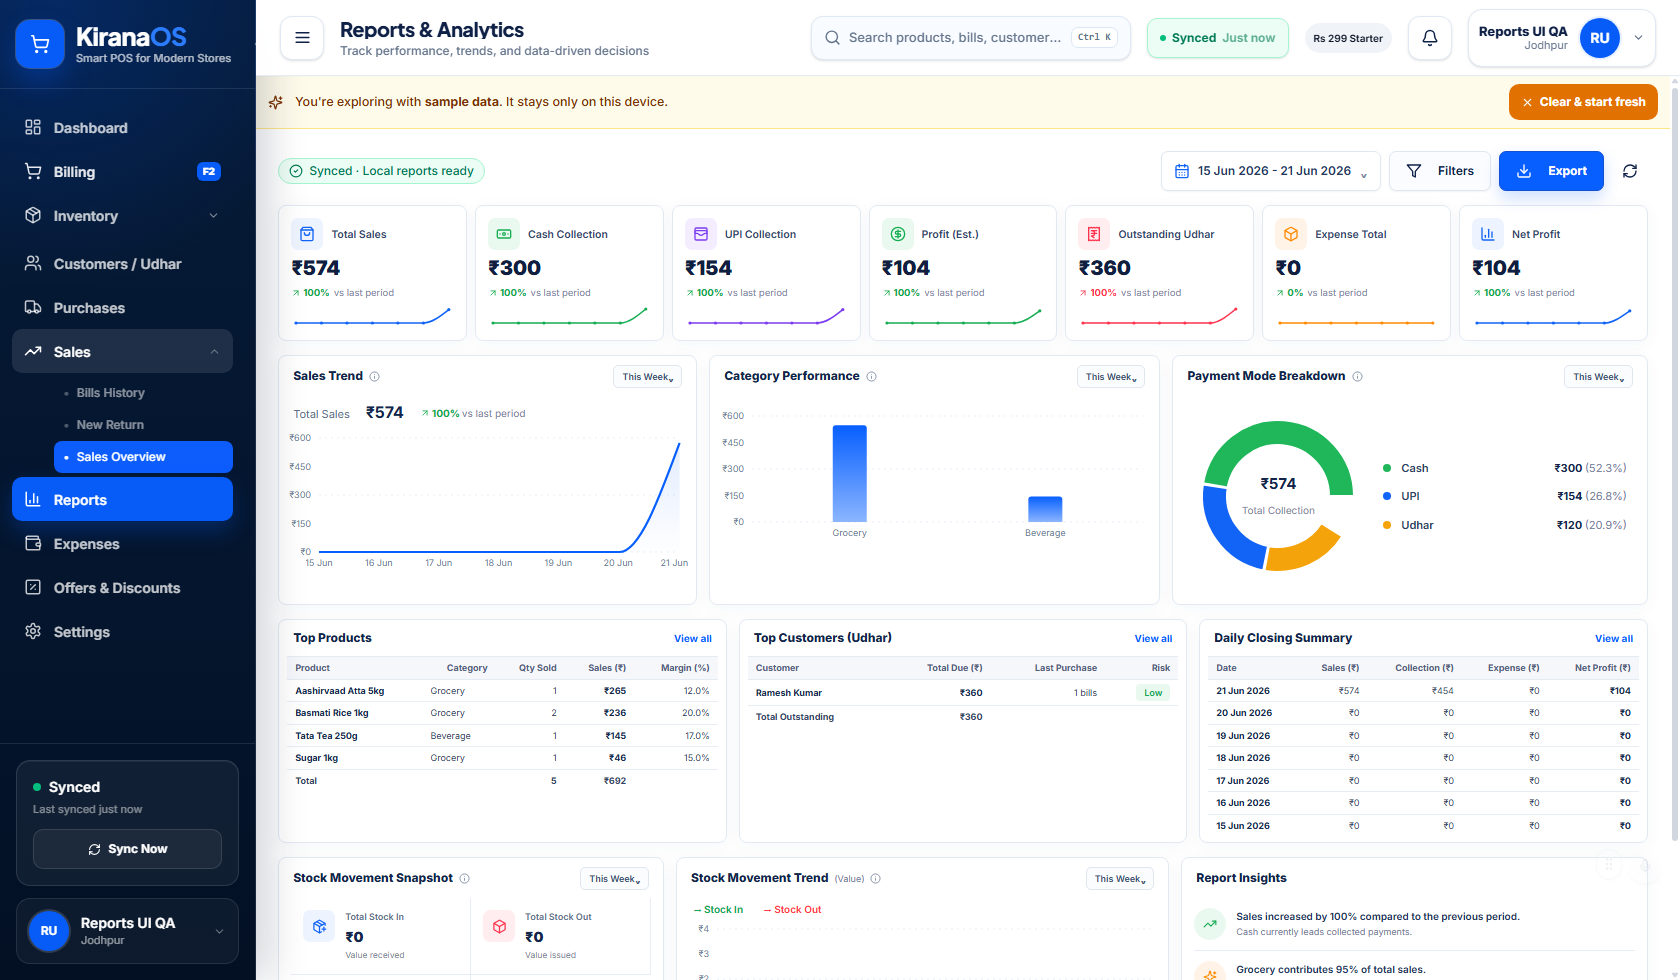
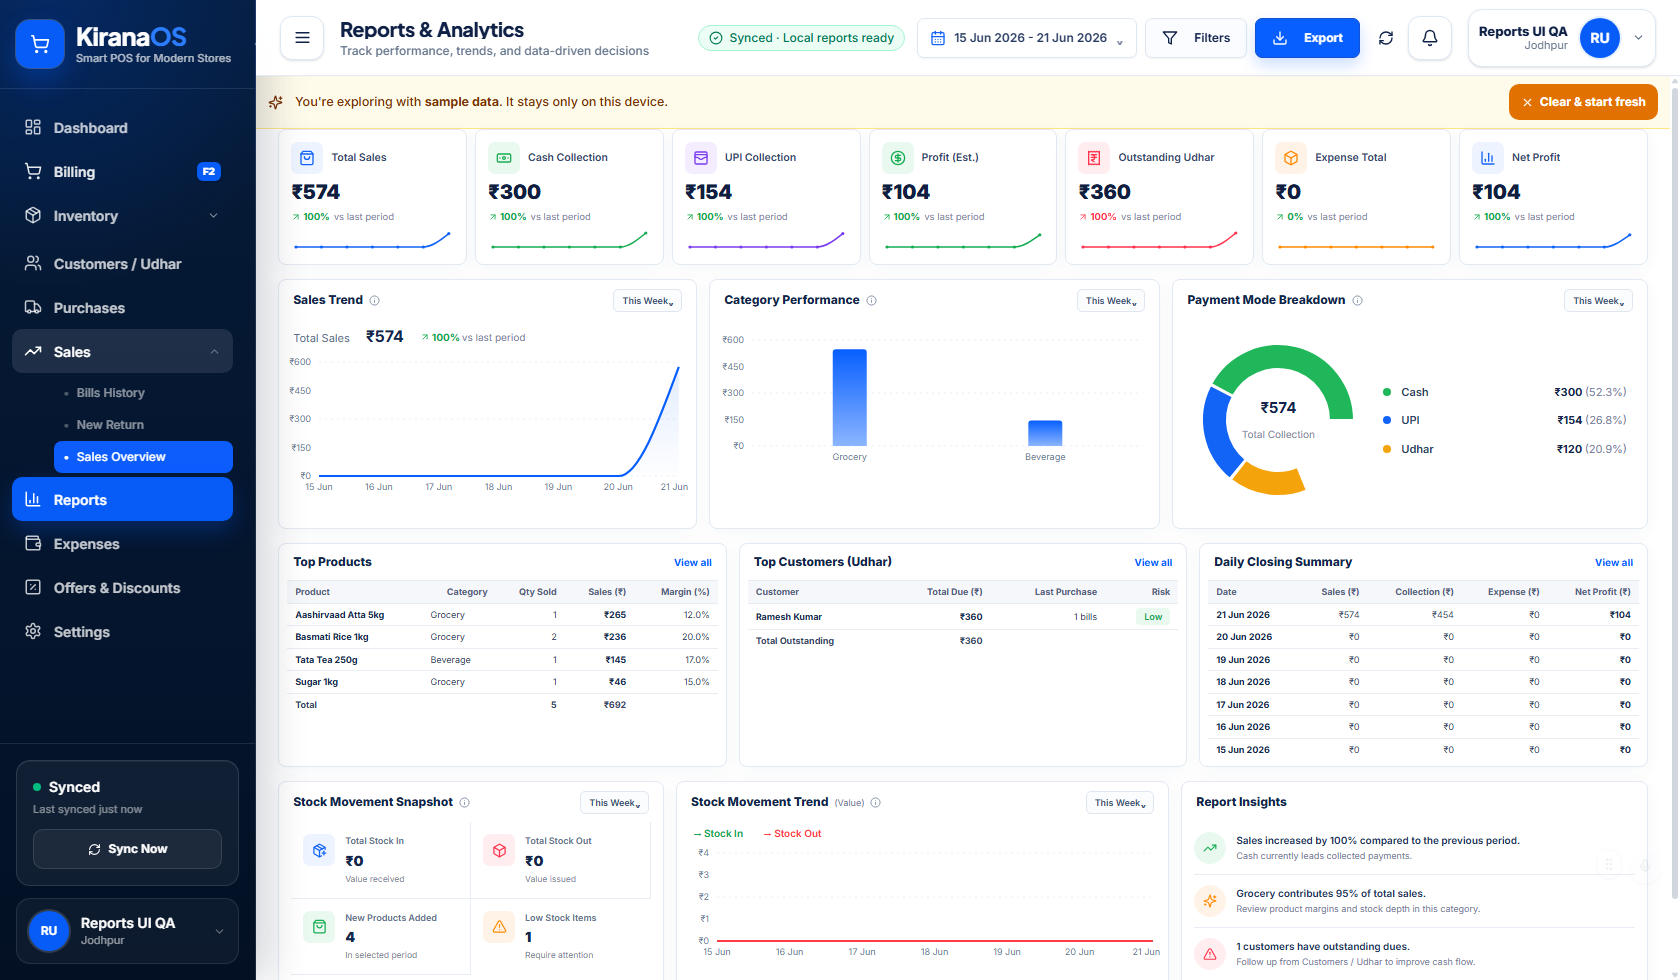
feat(reports): enhance top customers table with last purchase date and update screenshot handling

diff --git a/frontend/src/features/reports/pages/ReportsPage.tsx b/frontend/src/features/reports/pages/ReportsPage.tsx
@@ -428,7 +428,7 @@ export default function ReportsPage() {
         </DenseTable>
 
         <DenseTable title="Top Customers (Udhar)" action="View all" actionHref="/customers" headers={["Customer", "Total Due (₹)", "Last Purchase", "Risk"]} loading={loading} empty={!snapshot?.topCustomers.length}>
-          {snapshot?.topCustomers.slice(0, 5).map((row) => <tr key={row.customerId}><Td strong>{row.name}</Td><Td right strong>{fmt(row.balance)}</Td><Td right>{row.bills ? `${row.bills} bills` : "—"}</Td><Td right><RiskChip balance={row.balance} /></Td></tr>)}
+          {snapshot?.topCustomers.slice(0, 5).map((row) => <tr key={row.customerId}><Td strong>{row.name}</Td><Td right strong>{fmt(row.balance)}</Td><Td right>{row.lastPurchase ? dateLabel(row.lastPurchase.slice(0, 10)) : "—"}</Td><Td right><RiskChip balance={row.balance} /></Td></tr>)}
           {snapshot?.topCustomers.length ? <tr className="font-bold"><Td>Total Outstanding</Td><Td right>{fmt(snapshot.topCustomers.reduce((sum, row) => sum + row.balance, 0))}</Td><Td /><Td /></tr> : null}
         </DenseTable>
 

diff --git a/frontend/src/features/reports/local-reporting.ts b/frontend/src/features/reports/local-reporting.ts
@@ -51,6 +51,7 @@ export interface ReportTopCustomer {
   sales: number;
   balance: number;
   bills: number;
+  lastPurchase?: string | null;
 }
 
 export interface ReportTopProduct {
@@ -289,9 +290,11 @@ function topCustomersFromSnapshot(snapshot: FinancialAggregationSnapshot): Repor
       sales: 0,
       balance: outstandingById.get(customerId) ?? 0,
       bills: 0,
+      lastPurchase: bill.date,
     };
     existing.sales = roundMoney(existing.sales + bill.amount);
     existing.bills += 1;
+    if (!existing.lastPurchase || bill.date > existing.lastPurchase) existing.lastPurchase = bill.date;
     rows.set(customerId, existing);
   }
   for (const customer of snapshot.outstandingCustomers) {
@@ -303,6 +306,7 @@ function topCustomersFromSnapshot(snapshot: FinancialAggregationSnapshot): Repor
       sales: 0,
       balance: customer.outstanding,
       bills: 0,
+      lastPurchase: null,
     });
   }
   return [...rows.values()].sort((a, b) => b.sales - a.sales || b.balance - a.balance).slice(0, 10);

diff --git a/frontend/src/components/layout/Layout.tsx b/frontend/src/components/layout/Layout.tsx
@@ -460,7 +460,7 @@ export function Layout({ children }: { children: ReactNode }) {
       >
         {/* Desktop topbar */}
         <header className="sticky top-0 z-40 hidden min-h-[var(--app-desktop-topbar-height)] items-center gap-4 border-b border-[#e6ecf4] bg-white/94 px-5 shadow-[0_1px_0_rgba(15,35,80,0.02)] backdrop-blur-xl lg:flex xl:px-6">
-          {loc !== "/reports" && <button
+          <button
             type="button"
             aria-label="Toggle sidebar"
             onClick={() => setCollapsed((c) => !c)}
@@ -475,7 +475,7 @@ export function Layout({ children }: { children: ReactNode }) {
             )}
           </div>
 
-          <button
+          {loc !== "/reports" && <button
             type="button"
             onClick={() => setPaletteOpen(true)}
             aria-label="Search products, bills, and customers"
